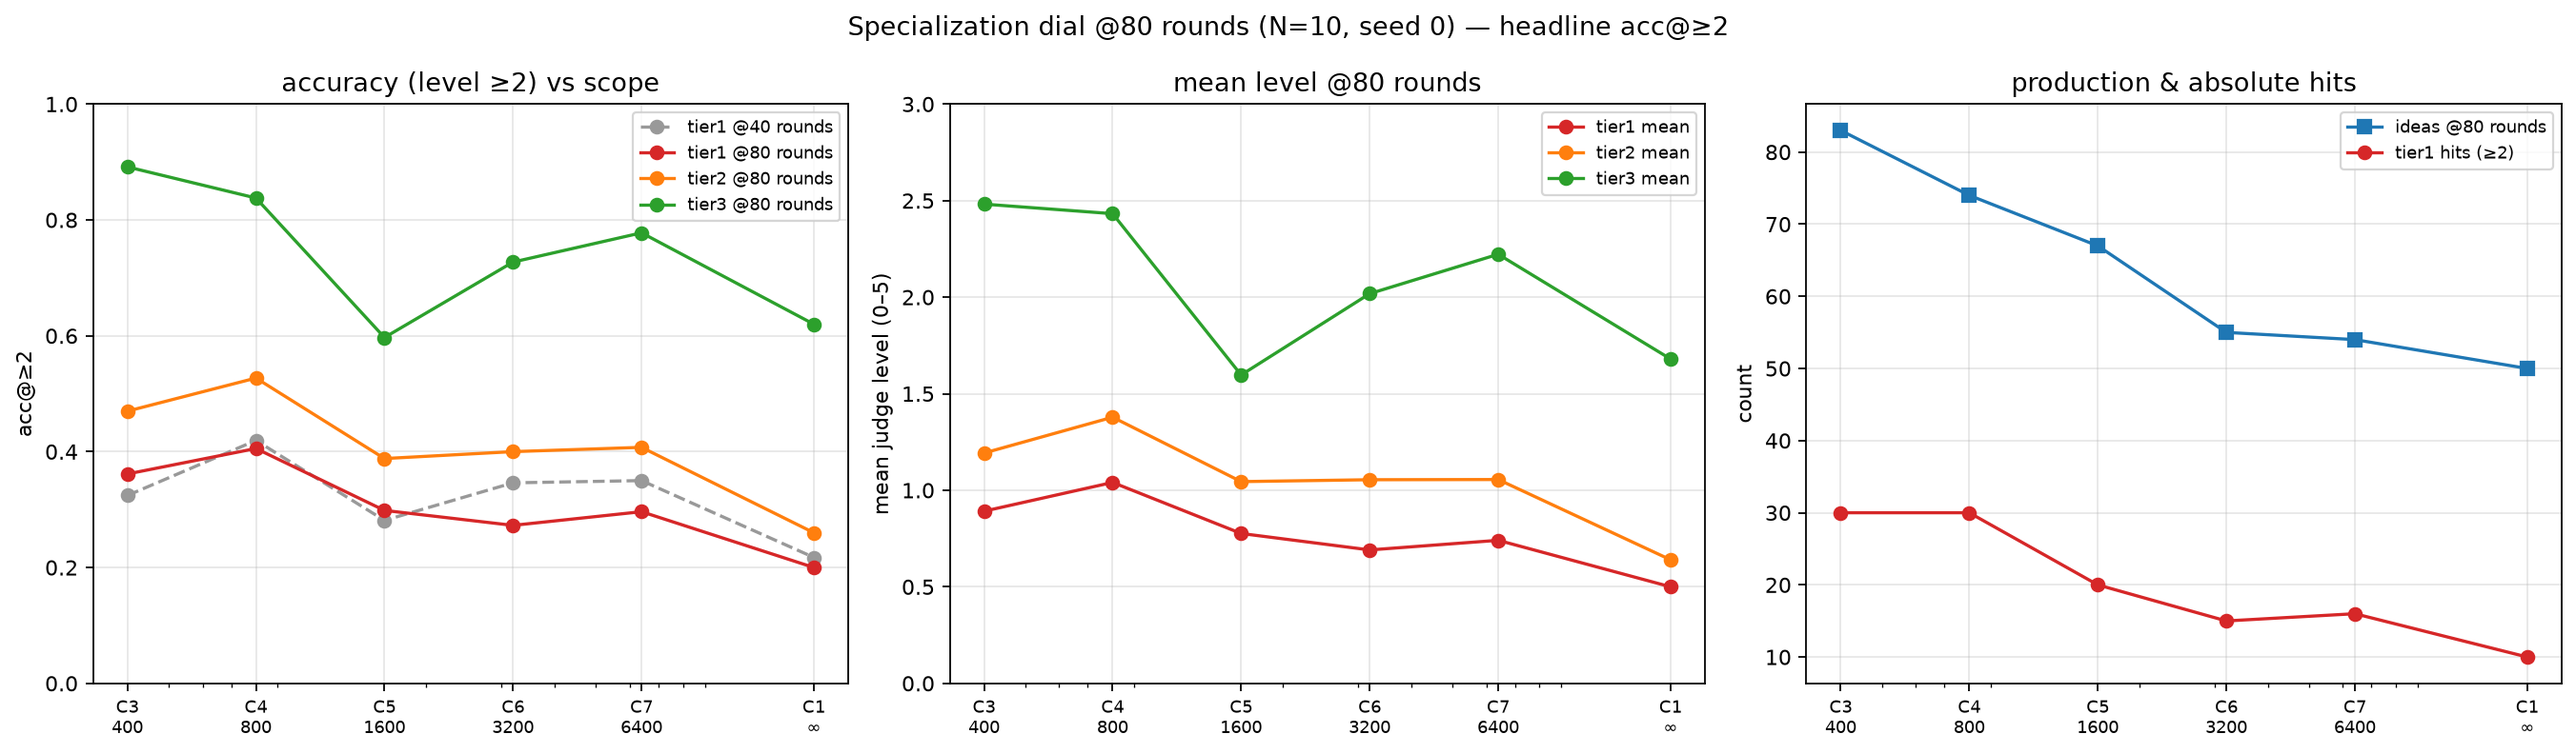
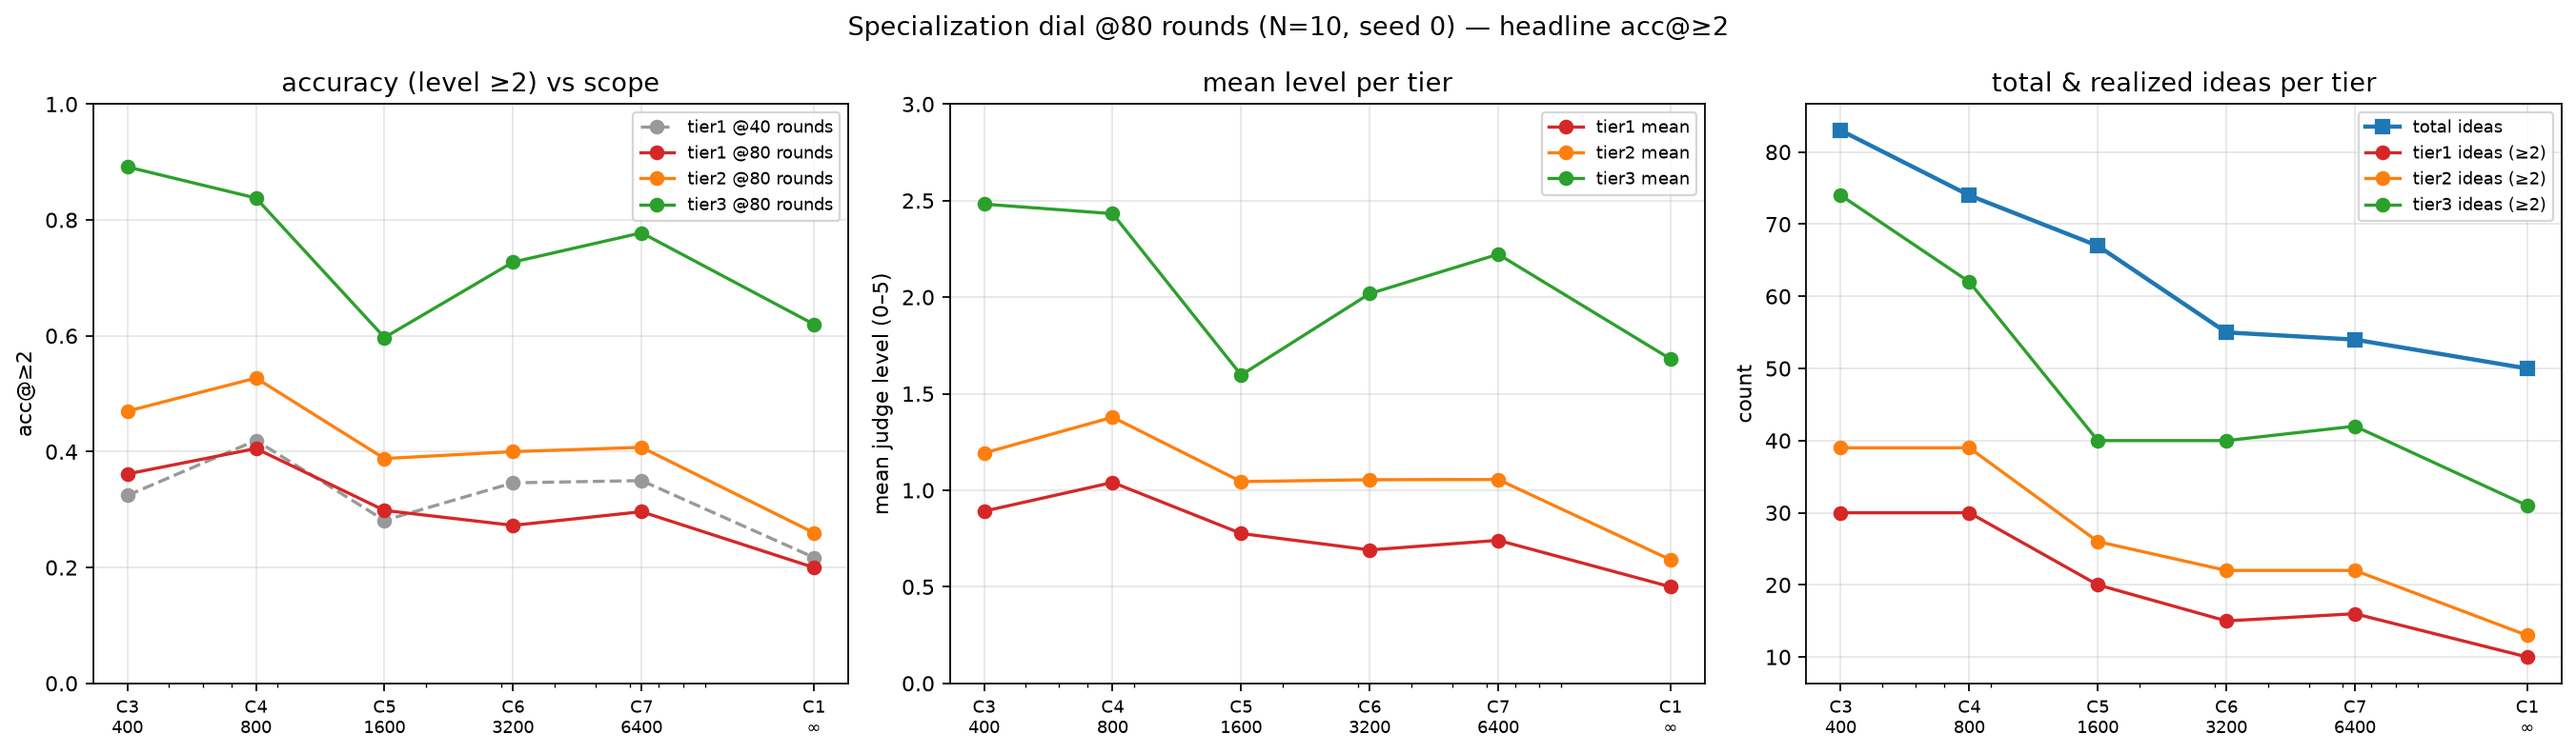
paper: Fig1 adds per-tier realized counts; Fig2 2x2 accumulation per tier; Table1 per-tier hits; appendix level-distribution bars

diff --git a/paper/main.tex b/paper/main.tex
@@ -252,9 +252,9 @@ verdicts.
 \begin{table}[t]
 \caption{The specialization dial: $N{=}10$ agents, 80 rounds, one seed.
 Read scope $m$ is the number of corpus papers each agent may read;
-writes are always free. Each tier cell reports acc@$\geq$2 (share of
-ideas realized at level $\geq 2$ by a post-cutoff paper in the tier;
-hits in parentheses) and the mean best realization level.}
+writes are always free. Each tier cell reports acc@$\geq$2, the number of
+realized ideas (level $\geq 2$, in parentheses), and the mean best
+realization level.}
 \label{tab:dial}
 \begin{center}\small
 \begin{tabular}{lrrccc}
@@ -262,12 +262,12 @@ hits in parentheses) and the mean best realization level.}
  & \textbf{scope $m$} & \textbf{ideas} & \textbf{tier-1 acc (hits) / mean} &
  \textbf{tier-2 acc / mean} & \textbf{tier-3 acc / mean} \\
 \midrule
-C3 & 400   & \textbf{83} & 36\% (30) / 0.89 & 47\% / 1.19 & \textbf{89\%} / \textbf{2.48} \\
-C4 & 800   & 74 & \textbf{41\% (30) / 1.04} & \textbf{53\% / 1.38} & 84\% / 2.43 \\
-C5 & 1600  & 67 & 30\% (20) / 0.78 & 39\% / 1.04 & 60\% / 1.60 \\
-C6 & 3200  & 55 & 27\% (15) / 0.69  & 40\% / 1.05 & 73\% / 2.02 \\
-C7 & 6400  & 54 & 30\% (16) / 0.74  & 41\% / 1.06 & 78\% / 2.22 \\
-C1 & $\infty$ & 50 & 20\% (10) / 0.50 & 26\% / 0.64 & 62\% / 1.68 \\
+C3 & 400   & \textbf{83} & 36\% (30) / 0.89 & 47\% (39) / 1.19 & \textbf{89\% (74)} / \textbf{2.48} \\
+C4 & 800   & 74 & \textbf{41\% (30) / 1.04} & \textbf{53\% (39) / 1.38} & 84\% (62) / 2.43 \\
+C5 & 1600  & 67 & 30\% (20) / 0.78 & 39\% (26) / 1.04 & 60\% (40) / 1.60 \\
+C6 & 3200  & 55 & 27\% (15) / 0.69  & 40\% (22) / 1.05 & 73\% (40) / 2.02 \\
+C7 & 6400  & 54 & 30\% (16) / 0.74  & 41\% (22) / 1.06 & 78\% (42) / 2.22 \\
+C1 & $\infty$ & 50 & 20\% (10) / 0.50 & 26\% (13) / 0.64 & 62\% (31) / 1.68 \\
 \bottomrule
 \end{tabular}
 \end{center}
@@ -281,7 +281,8 @@ C1 & $\infty$ & 50 & 20\% (10) / 0.50 & 26\% / 0.64 & 62\% / 1.68 \\
 vs.\ read scope (log axis); the gray dashed line is the tier-1 curve at
 the 40-round midpoint, whose deviations from the 80-round curve
 illustrate small-$n$ noise. Middle: mean
-realization level. Right: idea production and absolute tier-1 hits.}
+realization level per tier. Right: total idea production and the number
+of realized ideas (level $\geq 2$) per tier.}
 \label{fig:dial}
 \end{figure}
 
@@ -304,14 +305,16 @@ quality of freely-roaming exploration decays.
 
 \begin{figure}[t]
 \begin{center}
-\includegraphics[width=0.72\linewidth]{mass-dial-accumulation.png}
+\includegraphics[width=0.95\linewidth]{mass-dial-accumulation.png}
 \end{center}
-\caption{Cumulative idea production over rounds. All conditions start
-producing between rounds 8--17; the production gap is a
-\emph{steady-state rate} effect, not a head start: narrow scopes settle
-into $\sim$1 idea/round while broad scopes run at $\sim$0.65/round with
-recurring plateaus where agents fall back into exploration. No curve
-saturates by round 80.}
+\caption{Cumulative idea production over rounds: all generated ideas
+(top left) and the subsets realized at level $\geq 2$ in each
+recognition tier. All conditions start producing between rounds 8--17;
+the production gap is a \emph{steady-state rate} effect, not a head
+start: narrow scopes settle into $\sim$1 idea/round while broad scopes
+run at $\sim$0.65/round with recurring plateaus. The realized subsets
+accumulate in near-constant proportion to production---no condition's
+quality drifts over the run---and no curve saturates by round 80.}
 \label{fig:accum}
 \end{figure}
 
@@ -817,6 +820,22 @@ searches free) $\sim$\$40--80. Total on the order of \$350--600. A
 single dial-style run (10 agents, 80 rounds) costs $\sim$\$15--25 and
 $\sim$1 hour wall clock; evaluation of its ideas a further
 $\sim$\$5--10.
+
+\subsection{Realization-level distributions}
+\label{app:leveldist}
+
+\begin{figure}[ht]
+\begin{center}
+\includegraphics[width=0.62\linewidth]{dial-levels-tier1.png}\\
+\includegraphics[width=0.62\linewidth]{dial-levels-tier2.png}\\
+\includegraphics[width=0.62\linewidth]{dial-levels-tier3.png}
+\end{center}
+\caption{Idea counts by best realization level for each dial condition,
+one panel per recognition tier (stacked bars; bar height = total ideas
+generated). Level 1 (``same broad area, different goal'') is never the
+best match in any tier---the judge's effective scale is 0/2/3/4/5.}
+\label{fig:leveldist}
+\end{figure}
 
 \subsection{Behavioral observations}
 
